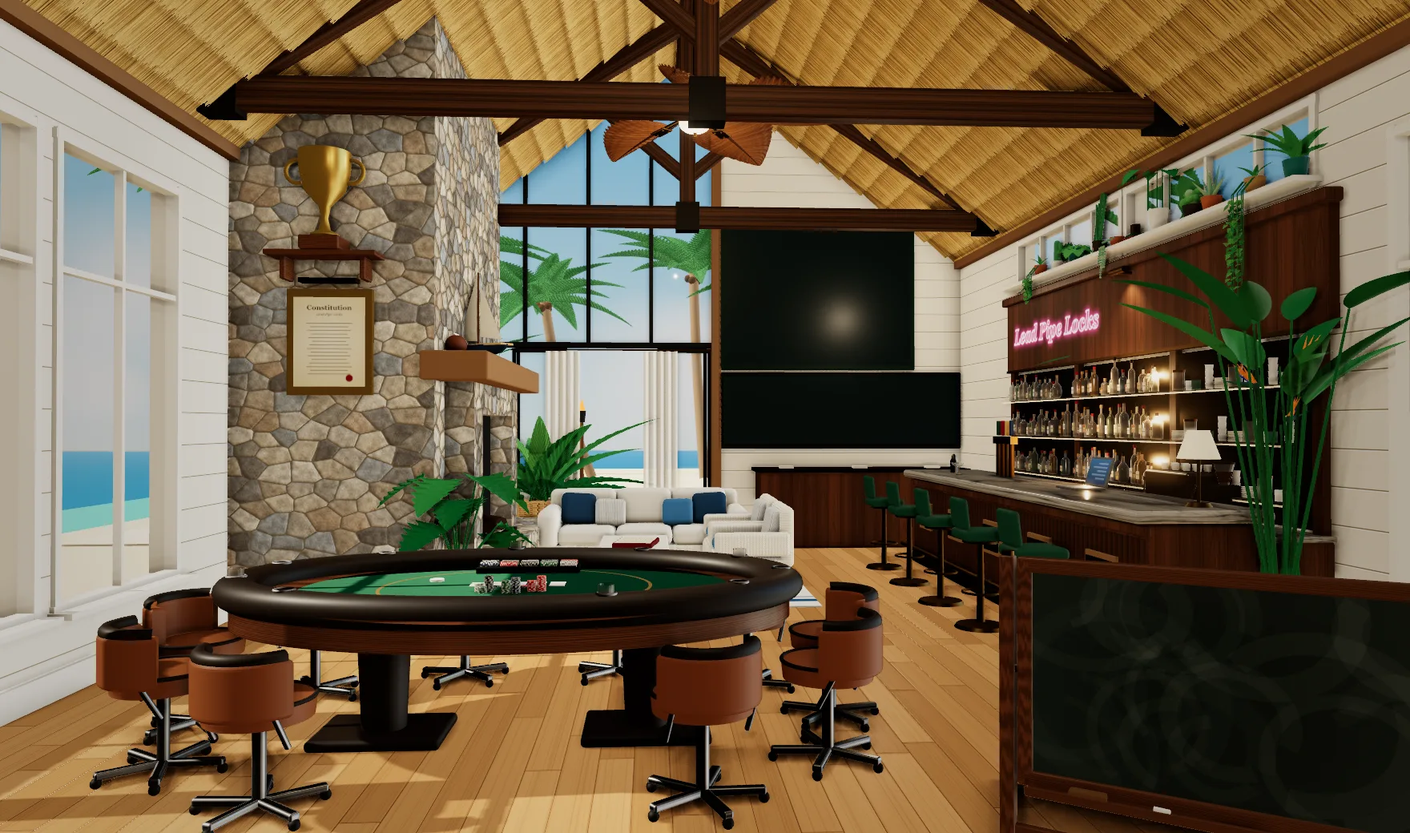
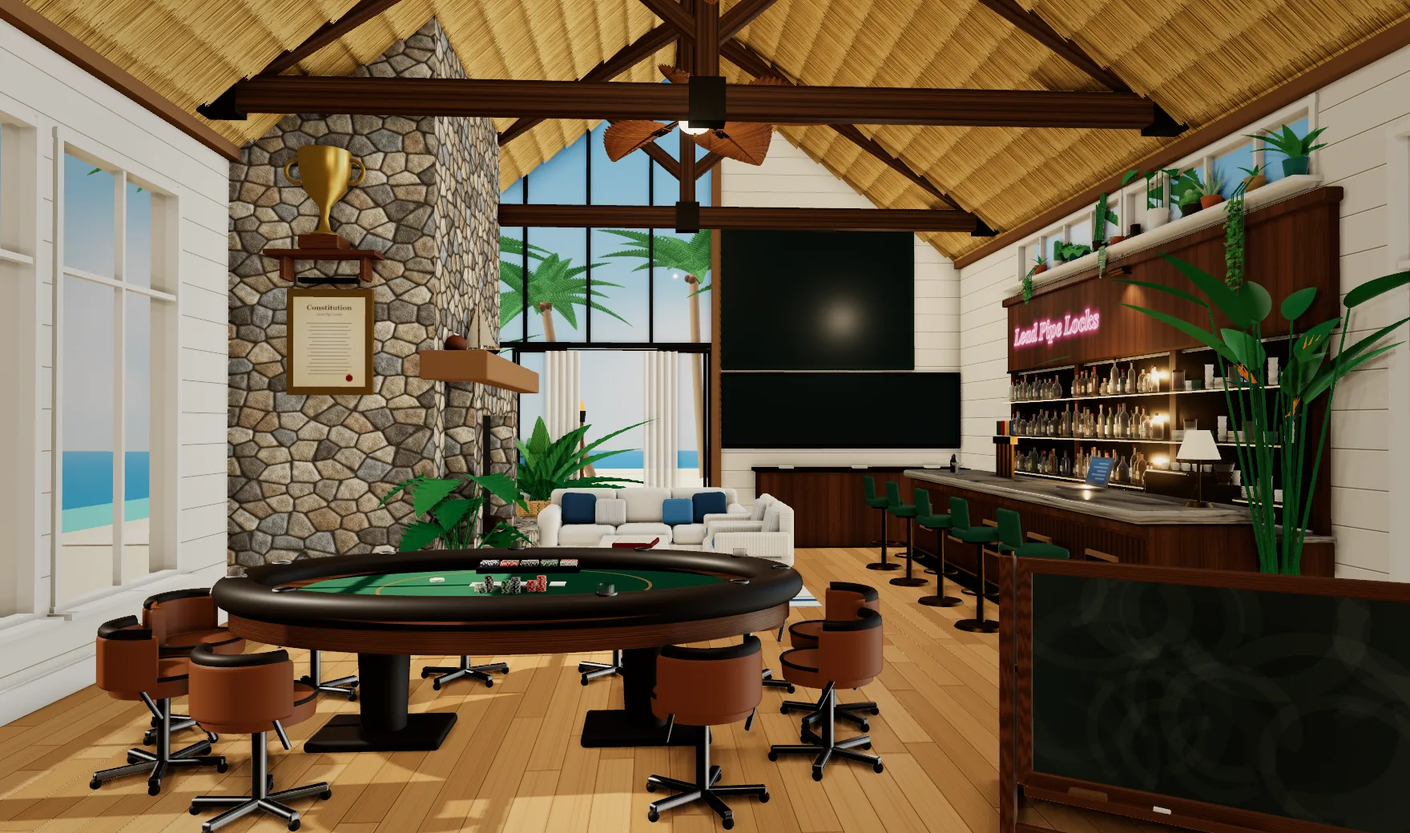
Clubhouse polish: chalkboard and bottles taps, one lamp, sheet snap, city and state, chat pill, mantel ship, deeper stone, no Plaques heading

Changed region(s): [[0.1562, 0.1231, 0.375, 0.6769], [0.25, 0.0308, 0.3438, 0.0923]]

diff --git a/test/visual/clubhouse.visual.spec.ts b/test/visual/clubhouse.visual.spec.ts
@@ -84,7 +84,7 @@ test("every thing in the room opens its pop-up over it, on the real week, and th
   };
   await opens("The Big Board", "The Big Board", /GARY/);
   await opens("Survivor", "Survivor", /GARY/);
-  await opens("Trophy Room", "Trophy Room", /Plaques/);
+  await opens("Trophy Room", "Trophy Room", /Pennants|No champions yet|20\d\d/);
   await opens("Constitution", "Constitution", /Constitution/);
   // The games board in the room opens the same board with your ticket ready.
   await room.getByRole("button", { name: "Make your picks", exact: true }).click();
@@ -728,7 +728,7 @@ function bowlRead(optedIn = true) {
     games: [
       { id: "g1", bowl_name: "Rose Bowl Game presented by Prudential", kickoff_at: "2026-09-29T21:00:00Z", status: "final", away_team_id: "a1", home_team_id: "h1", awayTeam: team("a1", "Indiana"), homeTeam: team("h1", "Ohio State"), away_score: 20, home_score: 27, line: { favorite_team_id: "h1", locked_spread: 3.5 } },
       { id: "g2", bowl_name: "CFP First Round", kickoff_at: "2026-09-30T15:00:00Z", status: "in_progress", away_team_id: "a2", home_team_id: "h2", awayTeam: team("a2", "Texas Tech"), homeTeam: team("h2", "Oregon"), line: { favorite_team_id: "h2", locked_spread: 7.5 } },
-      { id: "g3", bowl_name: "Snoozeville Mattress Bowl", kickoff_at: "2026-10-02T20:00:00Z", status: "scheduled", away_team_id: "a3", home_team_id: "h3", awayTeam: team("a3", "Duke"), homeTeam: team("h3", "Arizona"), line: { favorite_team_id: "h3", locked_spread: 2.5 } },
+      { id: "g3", bowl_name: "Snoozeville Mattress Bowl", kickoff_at: "2026-10-02T20:00:00Z", status: "scheduled", venue_city: "Boise", venue_state: "ID", away_team_id: "a3", home_team_id: "h3", awayTeam: team("a3", "Duke"), homeTeam: team("h3", "Arizona"), line: { favorite_team_id: "h3", locked_spread: 2.5 } },
       { id: "g4", bowl_name: "CFP National Championship", kickoff_at: "2026-10-05T00:30:00Z", status: "scheduled", away_team_id: "a4", home_team_id: "h4", awayTeam: team("a4", "Miami"), homeTeam: team("h4", "Georgia"), line: { favorite_team_id: "h4", locked_spread: 2.5 } },
     ],
     ownPicks: optedIn ? [{ game_id: "g1", selected_team_id: "h1", result: "win" }, { game_id: "g4", selected_team_id: "a4", result: null }] : [],
@@ -813,6 +813,33 @@ test("tapping the room's ceiling light turns the lights down for night, and agai
   await expect(page.locator("html")).toHaveAttribute("data-theme", "day");
 });
 
+test("only the ceiling light changes day and night: the bar has no lamp that does, on a desktop or a phone", async ({ page }) => {
+  for (const size of [{ width: 1280, height: 800 }, { width: 390, height: 844 }]) {
+    await page.setViewportSize(size);
+    await openClubhouse(page);
+    await expect(page.getByRole("button", { name: /Turn the lights (down|up).*ceiling light/ })).toHaveCount(1, { timeout: 30_000 });
+    await expect(page.getByRole("button", { name: /bar lamp/ })).toHaveCount(0);
+  }
+});
+
+test("tapping the chalkboard opens the Season Snapshot and tapping the bottles behind the bar opens Pool chat, on a desktop and a phone", async ({ page }) => {
+  for (const size of [{ width: 1280, height: 800 }, { width: 390, height: 844 }]) {
+    await page.setViewportSize(size);
+    await openClubhouse(page);
+    const room = page.getByRole("navigation", { name: "Clubhouse rooms" });
+    for (const [spot, dialog] of [["Chalkboard: open Season Snapshot", "Season Snapshot"], ["Bottles on the back bar: open Pool chat", "Pool chat"]] as const) {
+      const target = room.getByRole("button", { name: spot });
+      await expect(target).toBeVisible({ timeout: 30_000 });
+      const box = (await target.boundingBox())!;
+      // A tap in the middle of the picture's thing (not on a plate) reaches it: nothing else is on top there.
+      await page.mouse.click(box.x + box.width / 2, box.y + box.height / 2);
+      await expect(page.getByRole("dialog", { name: dialog })).toBeVisible({ timeout: 30_000 });
+      await page.keyboard.press("Escape");
+      await expect(page.getByRole("dialog", { name: dialog })).toBeHidden();
+    }
+  }
+});
+
 test("the Bowl ticket's Sheet is everyone's picks on every bowl: a school once a bowl kicks off, a lit lamp for a hidden pick, an unlit one for none", async ({ page }) => {
   await openClubhouse(page, { at: "/clubhouse#bowl", bowl: bowlRead() });
   const ticket = page.getByRole("dialog", { name: "Bowl Pool" }).locator(".lab-bowl-ticket");
@@ -828,6 +855,25 @@ test("the Bowl ticket's Sheet is everyone's picks on every bowl: a school once a
   await expect(sheet.locator("thead th").first()).toHaveText("Wins");
   const widths = await sheet.locator("col.lab-bowl-sheet-col-game").evaluateAll((cols) => cols.map((col) => Math.round(col.getBoundingClientRect().width)));
   expect(new Set(widths).size).toBe(1);   // a bowl that kicked off without a pick
+});
+
+test("the Bowl sheet stops with a game column framed beside the player columns, never part way", async ({ page }) => {
+  await openClubhouse(page, { at: "/clubhouse#bowl", bowl: bowlRead() });
+  const ticket = page.getByRole("dialog", { name: "Bowl Pool" }).locator(".lab-bowl-ticket");
+  await ticket.getByRole("button", { name: "Sheet", exact: true }).click({ timeout: 30_000 });
+  const scroller = ticket.locator(".lab-bowl-sheet-scroll");
+  await expect(scroller).toBeVisible();
+  expect(await scroller.evaluate((node) => getComputedStyle(node).scrollSnapType)).toContain("mandatory");
+  expect(await scroller.locator("thead th").nth(2).evaluate((node) => getComputedStyle(node).scrollSnapAlign)).toBe("start");
+  // Let go anywhere and it settles on a column's left edge (just past the held columns).
+  await scroller.evaluate((node) => node.scrollTo({ left: 37, behavior: "instant" }));
+  await page.waitForTimeout(600);
+  const gap = await scroller.evaluate((node) => {
+    const held = node.querySelectorAll("thead th")[2] as HTMLElement;
+    const heads = [...node.querySelectorAll("thead th")].slice(2) as HTMLElement[];
+    return Math.min(...heads.map((th) => Math.abs(th.offsetLeft - held.offsetLeft - node.scrollLeft)));
+  });
+  expect(gap).toBeLessThan(2);
 });
 
 test("on the Bowl ticket only the team you picked is outlined in gold, and you can switch teams or take the pick back", async ({ page }) => {
@@ -1160,7 +1206,8 @@ for (const [label, size] of [["phone-390", SIZES["phone-390"]], ["desktop-1280",
     await openClubhouse(page, { size });
     await page.getByRole("navigation", { name: "Clubhouse rooms" }).getByRole("button", { name: "Trophy Room", exact: true }).click();
     const wall = page.getByRole("dialog", { name: "Trophy Room" }).locator(".lab-case.lab-wall");
-    await expect(wall.getByRole("heading", { name: "Plaques", exact: true })).toBeVisible({ timeout: 30_000 });
+    await expect(wall.getByRole("region", { name: "Plaques" })).toBeVisible({ timeout: 30_000 });
+    await expect(wall.getByRole("heading", { name: "Plaques" })).toHaveCount(0);
     await expect(page.getByText("one for every season")).toHaveCount(0);
     await wall.scrollIntoViewIfNeeded();
     await page.addStyleTag({ content: "nextjs-portal { display: none !important; } *, *::before, *::after { animation: none !important; transition: none !important; }" });
@@ -1201,3 +1248,13 @@ for (const [label, size] of [["phone-390", SIZES["phone-390"]], ["desktop-1280",
   });
 }
 
+
+test("a Bowl game's small line says where it is played after the time, on one line that never makes the row taller", async ({ page }) => {
+  await openClubhouse(page, { at: "/clubhouse#bowl", bowl: bowlRead() });
+  const ticket = page.getByRole("dialog", { name: "Bowl Pool" }).locator(".lab-bowl-ticket");
+  const line = ticket.locator(".lab-bowl-game", { hasText: "Snoozeville" }).locator(".lab-bowl-name small");
+  await expect(line).toContainText(/ · Boise, ID$/, { timeout: 30_000 });
+  const withPlace = (await line.boundingBox())!.height;
+  const bare = (await ticket.locator(".lab-bowl-game", { hasText: "National Championship" }).locator(".lab-bowl-name small").boundingBox())!.height;
+  expect(withPlace).toBeLessThanOrEqual(bare + 1);
+});

diff --git a/src/components/clubhouse/room-scene.tsx b/src/components/clubhouse/room-scene.tsx
@@ -26,13 +26,17 @@ const PICTURES: Record<string, Picture> = ROOM_PICTURES;
 const SPOTS: ReadonlyArray<{ spot: string; room: Room; name: string; tag?: string; label: "above" | "below" | "none" | "free"; at?: { x: number; y: number }; wideAt?: { x: number; y: number }; fullAt?: { x: number; y: number }; ticket?: boolean; realOnly?: boolean }> = [
   // The poker table comes first: it is the biggest thing in the picture, so everything smaller stays on top of it.
   { spot: "survivor", room: "survivor", name: "Survivor", label: "below" },
+  // The bottles on the back bar open the pool chat too, like the chat plate by the stools (no plate of its own; the real clubhouse only).
+  { spot: "bottles", room: "chat", name: "Bottles on the back bar: open Pool chat", label: "none", realOnly: true },
   // The spreads under the Big Board are where picks are made: the board itself opens the Big Board with your ticket ready (it needs
   // no label: it looks like the ticket), and so does the "Your picks" button, which stands by itself in the gap between the chairs.
   { spot: "sportsbook", room: "board", name: "Make your picks", label: "none", ticket: true },
+  // The chalkboard itself (not only its "Snapshot" pill) opens the Season Snapshot: the same rectangle, no plate of its own.
+  { spot: "chalkface", room: "snapshot", name: "Chalkboard: open Season Snapshot", label: "none" },
   { spot: "trophies", room: "trophies", name: "Trophy Room", tag: "Trophies", label: "above" },
   { spot: "board", room: "board", name: "The Big Board", label: "above" },
   // The chat plate stands on the bar stools just above the chalkboard (owner, 2026-11-22).
-  { spot: "chat", room: "chat", name: "Pool chat", tag: "Chat", label: "free", at: { x: 0.82, y: 0.55 }, fullAt: { x: 0.82, y: 0.55 }, wideAt: { x: 0.76, y: 0.64 } },
+  { spot: "chat", room: "chat", name: "Pool chat", tag: "Chat", label: "free", at: { x: 0.835, y: 0.575 }, fullAt: { x: 0.835, y: 0.575 }, wideAt: { x: 0.775, y: 0.665 } },
   // The chalkboard on its stand between the table and the bar: the Season Snapshot, sketched in chalk (and from Dec 7 the Bowl Pool's).
   // A small "Snapshot" pill sits on the board's upper edge so it reads as tappable (owner, 2026-11-22); above your ticket on a phone.
   { spot: "chalkboard", room: "snapshot", name: "Season Snapshot", tag: "Snapshot", label: "free", at: { x: 0.78, y: 0.66 }, fullAt: { x: 0.8, y: 0.66 }, wideAt: { x: 0.83, y: 0.7 } },
@@ -42,11 +46,11 @@ const SPOTS: ReadonlyArray<{ spot: string; room: Room; name: string; tag?: strin
   { spot: "notify", room: "board", name: "Notifications", tag: "Notifications", label: "free", at: { x: 0.8, y: 0.19 }, fullAt: { x: 0.8, y: 0.25 }, wideAt: { x: 0.8, y: 0.14 }, realOnly: true },
 ];
 
-/** The room's lamps, by picture shape (tall, filling the phone, wide): tapping one turns the lights down for night, or up for day. */
+/** The room's lamp, by picture shape (tall, filling the phone, wide): tapping the ceiling light turns the lights down for night, or up for day (nothing else in the room does). */
 const LAMPS: Record<"tall" | "full" | "wide", Array<{ name: string; x: number; y: number }>> = {
   tall: [{ name: "ceiling light", x: 0.53, y: 0.04 }],
   full: [{ name: "ceiling light", x: 0.53, y: 0.12 }],
-  wide: [{ name: "ceiling light", x: 0.49, y: 0.15 }, { name: "bar lamp", x: 0.85, y: 0.56 }],
+  wide: [{ name: "ceiling light", x: 0.49, y: 0.15 }],
 };
 
 /** The site's day or night, as the header's switch sets it (read straight from the page, before the header has had a turn). */
@@ -61,6 +65,12 @@ function followTheme(change: () => void) {
   watch.observe(document.documentElement, { attributeFilter: ["data-theme"] });
   return () => { window.removeEventListener("pickem-theme-change", change); watch.disconnect(); };
 }
+/** The back bar's shelves of bottles, by picture (as fractions of it), which open the chat. */
+const BOTTLES: Record<string, { x: number; y: number; w: number; h: number }> = {
+  "-wide": { x: 0.715, y: 0.41, w: 0.125, h: 0.17 },
+  "-full": { x: 0.86, y: 0.4, w: 0.14, h: 0.13 },
+};
+
 /** A desktop (900px and wider) gets the wide picture, known on the first render so a desktop never loads the phone's picture first. */
 const WIDE_QUERY = "(min-width: 900px)";
 const wideNow = () => window.matchMedia(WIDE_QUERY).matches;
@@ -251,7 +261,8 @@ export function RoomScene({ feed, onSpot, hrefFor, full = false }: { feed: RoomF
   useEffect(() => { const timer = window.setTimeout(() => setSettled(true), 2500); return () => window.clearTimeout(timer); }, []);
   // The real clubhouse on a phone has its own taller picture, to fill the screen.
   const key = wide ? "-wide" : full ? "-full" : "";
-  const picture = PICTURES[`day${key}`] ?? PICTURES.day;
+  const base = PICTURES[`day${key}`] ?? PICTURES.day;
+  const picture: Picture = { ...base, spots: { ...base.spots, ...(BOTTLES[key] ? { bottles: BOTTLES[key] } : {}), ...(base.spots.chalkboard ? { chalkface: base.spots.chalkboard } : {}) } };
   const news = feed.news;
   // The poker table is whichever pool is being played: Survivor while it runs, the Bowl Pool in bowl season (in the Bowl Pool's navy and
   // gold), never both; between the two (Survivor decided, the Bowl Pool not open yet) it has no plate. (Both are always on the board's tabs.)

diff --git a/src/app/clubhouse/page.tsx b/src/app/clubhouse/page.tsx
@@ -44,7 +44,7 @@ const writeTicketTuck = (tucked: boolean) => { try { window.localStorage.setItem
 const subscribeTicketTuck = (notify: () => void) => { window.addEventListener(TUCK_EVENT, notify); return () => window.removeEventListener(TUCK_EVENT, notify); };
 
 type Pane = "standings" | "slate" | "survivor" | "trophies" | "bowl" | "rules" | "notifications" | "snapshot";
-const SPOT_PANE: Record<string, Pane> = { board: "standings", survivor: "survivor", sportsbook: "slate", picks: "slate", trophies: "trophies", bowl: "bowl", constitution: "rules", notify: "notifications", chalkboard: "snapshot" };
+const SPOT_PANE: Record<string, Pane> = { board: "standings", survivor: "survivor", sportsbook: "slate", picks: "slate", trophies: "trophies", bowl: "bowl", constitution: "rules", notify: "notifications", chalkboard: "snapshot", chalkface: "snapshot" };
 const TITLE: Record<Pane, string> = { standings: "The Big Board", slate: "Your ticket", survivor: "Survivor", trophies: "Trophy Room", bowl: "Bowl Pool", rules: "Constitution", notifications: "Notifications", snapshot: "Season Snapshot" };
 // Notifications (the app, phone notifications, the email plan) is loaded only when its pop-up is opened.
 const NotificationSettings = dynamic(() => import("@/components/notification-settings").then((module) => module.NotificationSettings));
@@ -324,7 +324,7 @@ export default function ClubhousePage() {
   if (!room) return <FootballLoadingScreen background="bg-(color:--themed-bg-18) text-(color:--themed-text-18)" />;
   return (
     <main aria-label="Clubhouse" className={`clubhouse-page${blinks ? ` is-blink-${blinks % 2}` : ""}`} ref={main}>
-      <RoomScene feed={roomFeed ?? room.feed} full hrefFor={(spot) => (spot === "chat" ? "#chat" : paneOfSpot(spot) ? `#${paneOfSpot(spot)}` : null)} onSpot={(spot) => { if (spot === "chat") setChatOpen(true); else if (paneOfSpot(spot)) show(paneOfSpot(spot)!); }} />
+      <RoomScene feed={roomFeed ?? room.feed} full hrefFor={(spot) => (spot === "chat" || spot === "bottles" ? "#chat" : paneOfSpot(spot) ? `#${paneOfSpot(spot)}` : null)} onSpot={(spot) => { if (spot === "chat" || spot === "bottles") setChatOpen(true); else if (paneOfSpot(spot)) show(paneOfSpot(spot)!); }} />
       <Sheet bare onClose={closeChat} open={chatOpen} title="Pool chat"><ClubChat onHide={closeChat} /></Sheet>
       {room.ticket ? <RoomTicket onOpen={() => show("slate")} onTuck={tuckTicket} tucked={ticketTucked} savedAt={savedAt && savedAt.weekId === view?.weekId ? savedAt.time : null} ticket={room.ticket} week={room.feed.week} /> : null}
       {deck ? <Sheet bare closeSignal={deckClose} guard={holdDeck} onClose={() => { unsent.current = null; leave(...DECK); }} open title={TITLE[deck]}>

diff --git a/src/styles/81-lab.css b/src/styles/81-lab.css
@@ -637,7 +637,7 @@ a.lab-room-back.is-foot { justify-content: center; margin: 18px auto 0; width: f
 .lab-bowl-name > span:last-child { display: grid; min-width: 0; }
 .lab-bowl-round { color: var(--bowl-slip-gold); font-size: .62rem; font-style: normal; font-weight: 800; letter-spacing: .14em; text-transform: uppercase; }   /* which playoff round a bowl hosts */
 .lab-bowl-name b { color: var(--bowl-ink); font-size: .82rem; letter-spacing: .06em; }
-.lab-bowl-name small { color: rgba(240, 232, 214, .6); font-family: Georgia, serif; font-size: .7rem; letter-spacing: .04em; }
+.lab-bowl-name small { color: rgba(240, 232, 214, .6); font-family: Georgia, serif; font-size: .7rem; letter-spacing: .04em; overflow: hidden; text-overflow: ellipsis; white-space: nowrap; }
 .lab-bowl-game.is-owed .lab-bowl-name small { color: var(--bowl-gold-lt); font-weight: 700; }
 .lab-bowl-game.is-missed .lab-bowl-name small { color: rgb(236 150 132); }
 .lab-bowl-ticket .lab-board-at { display: none; }
@@ -683,8 +683,9 @@ a.lab-room-back.is-foot { justify-content: center; margin: 18px auto 0; width: f
 .lab-bowl-ticket .lab-window-submit:disabled { background: transparent; box-shadow: inset 0 0 0 1px var(--bowl-slip-gold); color: var(--bowl-gold-lt); }
 .lab-bowl-ticket .lab-window-part h4 small { color: rgba(240, 232, 214, .6); font-family: Georgia, serif; }
 /* The Bowl sheet: everyone's picks on every bowl, scrolling sideways under held record and name columns. */
-.lab-bowl-sheet-scroll { overflow-x: auto; overscroll-behavior-x: contain; padding: 0 0 6px; scrollbar-color: rgba(179, 139, 77, .5) transparent; scrollbar-width: thin; }
+.lab-bowl-sheet-scroll { overflow-x: auto; overscroll-behavior-x: contain; padding: 0 0 6px; scroll-padding-left: 8.7rem; scroll-snap-type: x mandatory; scrollbar-color: rgba(179, 139, 77, .5) transparent; scrollbar-width: thin; }
 .lab-bowl-sheet table { border-collapse: separate; border-spacing: 0; min-width: 100%; table-layout: fixed; }   /* every bowl column the same width */
+.lab-bowl-sheet :is(th, td):nth-child(n+3) { scroll-snap-align: start; }   /* a swipe stops with a bowl's column framed just past the held record and name, as on the Bowl Card */
 .lab-bowl-sheet-col-rec { width: 3.2rem; }
 .lab-bowl-sheet-col-name { width: 5.5rem; }
 .lab-bowl-sheet-col-game { width: 6.6rem; }

diff --git a/tools/clubhouse-room/surfaces.js b/tools/clubhouse-room/surfaces.js
@@ -91,10 +91,14 @@ export function fieldstone() {
     const blot = mottle(u, v) - 0.5 + (mottle(u * 4, v * 4) - 0.5) * 0.5, joint = 0.03 + 0.035 * mottle(u * 3 + 0.3, v * 3 + 0.7);
     const edge = d2 - d1, face = Math.min(1, Math.max(0, (edge - joint) / 0.2)), round = Math.pow(face, 0.5);
     const grit = (rand() - 0.5) * 20, o = (py * W + px) * 4, mortar = edge < joint;
-    const shade = mortar ? 1 + blot * 0.1 : 0.82 + 0.18 * round + (ox * s1.tilt - oy * 0.12) * 0.22 + blot * 0.24;
-    const col = mortar ? [130, 121, 106] : s1.c;
-    for (let k = 0; k < 3; k++) ci.data[o + k] = Math.max(0, Math.min(255, col[k] * shade + grit));
-    const hgt = mortar ? 52 + grit : 92 + 128 * round + blot * 56 + grit * 0.8;
+    // Depth: each stone is a rounded lump set back from deep, dark joints (the shade closes in toward every joint, a soft light from the
+    // top left catches the upper-left of each stone), with pitting and a fine grain on the faces so no stone is flat.
+    const cavity = mortar ? 1 : 0.5 + 0.5 * Math.min(1, face * 2.4);
+    const pit = mottle(u * 14 + 0.31, v * 14 + 0.17) - 0.5, fine = mottle(u * 40 + 0.5, v * 40 + 0.9) - 0.5;
+    const shade = (mortar ? 0.8 + blot * 0.1 : (0.82 + 0.18 * round + (ox * s1.tilt - oy * 0.12) * 0.34 + blot * 0.26 + pit * 0.16 + fine * 0.1) * cavity) * (mortar ? 1 : 1 + (-ox * 0.05 - oy * 0.07));
+    const col = mortar ? [118, 108, 94] : s1.c;
+    for (let k = 0; k < 3; k++) ci.data[o + k] = Math.max(0, Math.min(255, col[k] * shade + grit * 1.1));
+    const hgt = mortar ? 34 + grit : 70 + 150 * round + blot * 60 + pit * 46 + fine * 24 + grit * 0.9;
     bi.data[o] = bi.data[o + 1] = bi.data[o + 2] = Math.max(0, Math.min(255, hgt)); ci.data[o + 3] = bi.data[o + 3] = 255;
   }
   cg.putImageData(ci, 0, 0); bg.putImageData(bi, 0, 0);

diff --git a/src/lib/bowl-ticket-view.js b/src/lib/bowl-ticket-view.js
@@ -12,7 +12,7 @@ import { dateFormat } from "./date-format.js";
  *   owed: still open and no saved pick; picked: still open, picked; missed: kicked off with no pick (a loss); done: kicked off with a
  *   pick; off: postponed, cancelled or no contest, nothing to pick.
  * @typedef {{ side: BowlSide, teamId: string | null, name: string, line: string, score: number | null, covered: boolean | null, colors: { primary: string, secondary: string } | null }} BowlTeamCell   // colors: the school's own, once the import saved them
- * @typedef {{ id: string, bowl: string, flag: string, logo: string | null, cloth: string | null, hoist: string | null, day: string, time: string,
+ * @typedef {{ id: string, bowl: string, flag: string, logo: string | null, cloth: string | null, hoist: string | null, day: string, time: string, place: string,
  *   cells: BowlTeamCell[], locked: boolean, final: boolean, note: string | null, state: BowlRowState, mine: BowlSide | null,
  *   result: "W" | "L" | null, tiebreaker: boolean, playoff: boolean,
  *   round: "First Round" | "Quarterfinal" | "Semifinal" | "Championship" | null }} BowlTicketGame
@@ -150,6 +150,7 @@ export function bowlTicketView(payload, { now = Date.now(), viewerPlayerId = nul
       ...pennant,
       day: Number.isFinite(kickoff) ? EASTERN_DAY.format(new Date(kickoff)).toUpperCase().replace(",", "") : "DATE TBD",
       time: Number.isFinite(kickoff) && game.time_confirmed !== false ? EASTERN_TIME.format(new Date(kickoff)) : "Time TBD",
+      place: [game.venue_city, game.venue_state].filter(Boolean).join(", "),
       cells: [cell(game.awayTeam, game.away_team_id ?? game.awayTeam?.id, game.away_score, "away"), cell(game.homeTeam, game.home_team_id ?? game.homeTeam?.id, game.home_score, "home")],
       locked,
       final,

diff --git a/src/components/bowl-ticket.tsx b/src/components/bowl-ticket.tsx
@@ -90,6 +90,8 @@ export function BowlTicketCard({ view, onSave, onOptOut, flagStyle = "logo", onD
     if (game.locked) return "KICKED OFF";
     return game.time;
   };
+  // Where it is played (city, state) rides on the same small line as the time, so a row never grows taller for it.
+  const withPlace = (game: BowlTicketGame) => (game.place && !game.note && game.state !== "missed" ? `${caption(game)} · ${game.place}` : caption(game));
 
   return (
     <div className="lab-bigboard lab-window lab-bowl-ticket trace-gilt">
@@ -144,7 +146,7 @@ export function BowlTicketCard({ view, onSave, onOptOut, flagStyle = "logo", onD
                     <li className={`lab-bowl-game is-${game.state}`} key={game.id}>
                       <span className="lab-bowl-name">
                         {flagStyle === "logo" && (game.logo || game.playoff) ? (game.logo ? <BowlLogoFlag cloth={game.cloth} hoist={game.hoist} logo={game.logo} state={game.state} /> : <BowlLogoFlag cloth="rgb(0 0 0)" hoist="rgb(200 158 62)" logo={CFP_LOGO} state={game.state} />) : <BowlFlag flag={game.flag} state={game.state} />}
-                        <span>{game.round === "Quarterfinal" || game.round === "Semifinal" ? <em className="lab-bowl-round">CFP {game.round}</em> : null}<b>{game.bowl}</b><small>{caption(game)}</small></span>
+                        <span>{game.round === "Quarterfinal" || game.round === "Semifinal" ? <em className="lab-bowl-round">CFP {game.round}</em> : null}<b>{game.bowl}</b><small>{withPlace(game)}</small></span>
                       </span>
                       {cell(0)}
                       <span aria-hidden="true" className="lab-board-at">vs</span>

diff --git a/tools/clubhouse-room/room.js b/tools/clubhouse-room/room.js
@@ -607,7 +607,7 @@ export async function buildRoom(q) {
   // ----- the right wall: a grand fieldstone chimney from the floor to the thatch, the constitution framed on its near face, and the
   // lounge in front of it.
   const fire = group("fireplace");
-  const FZ = -9.9, CD = 1.8, stone = new THREE.MeshStandardMaterial({ ...fieldstone(), bumpScale: 6, roughness: 0.92 });
+  const FZ = -9.9, CD = 1.8, stone = new THREE.MeshStandardMaterial({ ...fieldstone(), bumpScale: Number(q.get("stonebump") ?? 14), roughness: 0.92 });
   const stoneBlock = (w, h, d, at) => add(fire, tile(box(w, h, d), 1.9, 2.0, at), stone, at);
   stoneBlock(CD, RIDGE, 3.6, [X1 - CD / 2, RIDGE / 2, FZ]);
   stoneBlock(0.6, 0.5, 4.2, [X1 - CD - 0.3, 0.25, FZ]);                                                  // raised hearth
@@ -635,7 +635,7 @@ export async function buildRoom(q) {
   if (arts.includes("boat")) {
     // A model sailing yacht on a little walnut stand, side-on to the room, sails in old canvas: it reads as a quiet silhouette.
     const boat = new THREE.Group(); boat.position.set(X1 - CD + 0.11 - MD / 2, 2.38, FZ + Number(q.get("boatz") ?? 0.6)); fire.add(boat);
-    boat.rotation.y = Number(q.get("boatturn") ?? 0.6); boat.scale.setScalar(Number(q.get("boatscale") ?? 1.5));
+    boat.rotation.y = Number(q.get("boatturn") ?? 0.5); boat.scale.setScalar(Number(q.get("boatscale") ?? 1.0));
     const L = 0.5;
     add(boat, rbox(0.2, 0.025, 0.07, 0.006), std(0x3a2416, { roughness: 0.55 }), [0, 0.012, 0]);
     for (const dx of [-0.07, 0.07]) add(boat, box(0.012, 0.07, 0.03), std(0x3a2416, { roughness: 0.55 }), [dx, 0.05, 0]);

diff --git a/src/components/clubhouse/trophy-room.tsx b/src/components/clubhouse/trophy-room.tsx
@@ -55,7 +55,6 @@ function PlaquesShelf({ seasons }: { seasons: Champions[] }) {
     <div className="lab-room-stack">
       <div className="lab-case lab-wall">
         <section aria-label="Plaques" className="lab-wall-part">
-          <h4>Plaques</h4>
           <div className="lab-case-shelf">
             {seasons.length ? seasons.map((year) => <Plaque key={year.season} year={year} />) : <p className="lab-wall-empty">No champions yet.</p>}
           </div>

diff --git a/docs/DECISION_LOG.md b/docs/DECISION_LOG.md
@@ -21,6 +21,15 @@ Add new entries at the top of this file. When it passes about 60 KB, move
 everything older than about two weeks into a new file under `docs/decisions/`
 and add a row above. (It is read at the start of every change, so short is cheaper.)
 
+## 2026-11-23 - Clubhouse: chalkboard, bottles, one lamp, sheet snap, city and state, mantel ship, deeper stone
+
+- The chalkboard was a "Snapshot" pill only; the board face is now a tap target for the Season Snapshot too. The bottles on the back bar open Pool chat. Both are real-clubhouse hit areas with no plate of their own.
+- Only the ceiling light changes day and night; the bar lamp no longer does.
+- The Bowl ticket's sheet snaps to a game column like the classic Bowl Card (scroll-snap, game columns align to the held columns).
+- Each Bowl ticket game's small line carries where it is played (city, state) after the time, on the same single line (ellipsis, never wraps), so a row is never taller for it. Pennants stay non-tappable.
+- The chat pill sits slightly lower and to the right. The mantel ship is smaller and turned so it sits on the mantel instead of running into the stone. The fireplace stone has deeper joints, cavity shading, pitting and grain; per-stone relief is tabled for about a week (owner).
+- The Trophy Room's plaque shelf has no visible "Plaques" heading (still a labelled region).
+
 ## 2026-11-22 - Clubhouse: the chalkboard is a still chalk drawing
 
 The chalkboard in the room no longer draws the live chart: it is a still chalk sketch of a race (an axis, four coloured chalk lines,
